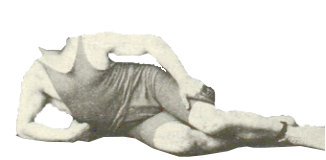
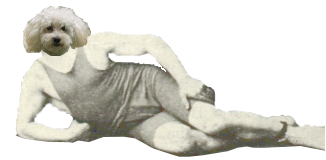
make header reactive

Changed region(s): [[0.0613, 0.0312, 0.2761, 0.375]]

diff --git a/client/src/components/Header.js b/client/src/components/Header.js
@@ -1,11 +1,10 @@
 import React, { useState } from 'react';
 import PropTypes from 'prop-types';
 import { Link, useNavigate } from 'react-router-dom';
-import { useAuth } from '../context/AuthContext'; // Import useAuth
+import { useAuth } from '../context/AuthContext';
 import './Header.css';
 
-// Import images from the src directory
-import logoFarigouleSrc from '../img/logo-farigoule.png'; // Adjusted path if logo is directly in src/img
+import logoFarigouleSrc from '../img/logo-farigoule.png';
 import boutonAccueilSrc from '../img/boutons/bouton-accueil.png';
 import boutonAccueilHoverSrc from '../img/boutons/bouton-accueil-hover.png';
 import boutonNousSrc from '../img/boutons/bouton-nous.png';
@@ -16,11 +15,6 @@ import boutonPortraitsSrc from '../img/boutons/bouton-portraits.png';
 import boutonPortraitsHoverSrc from '../img/boutons/bouton-portraits-hover.png';
 import boutonContactSrc from '../img/boutons/bouton-contact.png';
 import boutonContactHoverSrc from '../img/boutons/bouton-contact-hover.png';
-
-// TODO
-// Import CSS
-// - CSS for hover effects on menu items (replaces boutonsHover.js functionality)
-// - Ensure citation data is eventually fetched and passed as props if dynamic
 
 function Header(props) {
     const [isAccueilHovered, setIsAccueilHovered] = useState(false);
@@ -34,7 +28,7 @@ function Header(props) {
 
     const handleLogout = async () => {
         await logout();
-        navigate('/'); // Redirect to homepage after logout
+        navigate('/');
     };
     const handleGoProfile = () => navigate('/profile');
 
@@ -49,92 +43,48 @@ function Header(props) {
                     <p className="auteurCitation">{props.auteurCitation}</p>
                 </blockquote>
 
-                {/* Auth Status Display - Connexion link removed */}
                 <div className="auth-status-header">
                     {isAuthenticated && (
                         <>
-                        <span className="auth-user">Bienvenue, {currentUser?.surnom} !</span>
-
-                        {/* ─── nouveau bouton « Profil » ─── */}
-                        <button
-                            onClick={handleGoProfile}
-                            className="adminPanel-button"
-                            type = "edit"
-                        >
-                            Mon profil
-                        </button>
-                        <button
-                            onClick={handleLogout}
-                            disabled={isLoading}
-                            className="adminPanel-button"
-                            type="delete"
-                        >
-                            Déconnexion
-                        </button>
+                            <span className="auth-user">Bienvenue, {currentUser?.surnom} !</span>
+                            <button onClick={handleGoProfile} className="adminPanel-button" type="edit">
+                                Mon profil
+                            </button>
+                            <button onClick={handleLogout} disabled={isLoading} className="adminPanel-button" type="delete">
+                                Déconnexion
+                            </button>
                         </>
                     )}
                 </div>
 
-
-                <table className="tableauMenu">
-                    <thead>
-                        <tr>
-                            <td 
-                                onMouseEnter={() => setIsAccueilHovered(true)}
-                                onMouseLeave={() => setIsAccueilHovered(false)}
-                            >
-                                <span className="texteAccueil">Accueil</span>
-                                <Link to="/">
-                                    <img src={isAccueilHovered ? boutonAccueilHoverSrc : boutonAccueilSrc} alt="Bouton Accueil" className="boutonAccueil" />
-                                </Link>
-                            </td>
-                            <td
-                                onMouseEnter={() => setIsNousHovered(true)}
-                                onMouseLeave={() => setIsNousHovered(false)}
-                            >
-                                <span className="texteNous">Nous</span>
-                                <Link to="/nous">
-                                    <img src={isNousHovered ? boutonNousHoverSrc : boutonNousSrc} alt="Bouton Nous" className="boutonNous" />
-                                </Link>
-                            </td>
-                            <td
-                                onMouseEnter={() => setIsSymphoniesHovered(true)}
-                                onMouseLeave={() => setIsSymphoniesHovered(false)}
-                            >
-                                <span className="texteSymphonies">Symphonies</span>
-                                <Link to="/symphonies">
-                                    <img src={isSymphoniesHovered ? boutonSymphoniesHoverSrc : boutonSymphoniesSrc} alt="Bouton Symphonies" className="boutonSymphonies" />
-                                </Link>
-                            </td>
-                            <td
-                                onMouseEnter={() => setIsPortraitsHovered(true)}
-                                onMouseLeave={() => setIsPortraitsHovered(false)}
-                            >
-                                <span className="textePortraits">Portraits</span>
-                                <Link to="/portraits">
-                                    <img src={isPortraitsHovered ? boutonPortraitsHoverSrc : boutonPortraitsSrc} alt="Bouton Portraits" className="boutonPortraits" />
-                                </Link>
-                            </td>
-                            <td
-                                onMouseEnter={() => setIsContactHovered(true)}
-                                onMouseLeave={() => setIsContactHovered(false)}
-                            >
-                                <span className="texteContact">Contact</span>
-                                <Link to="/contact">
-                                    <img src={isContactHovered ? boutonContactHoverSrc : boutonContactSrc} alt="Bouton Contact" className="boutonContact" />
-                                </Link>
-                            </td>
-                        </tr>
-                    </thead>
-                </table>
+                <div className="flex flex-wrap justify-center gap-2 mt-4 md:flex-nowrap md:justify-between tableauMenu">
+                    {[{
+                        title: 'Accueil', link: '/', img: boutonAccueilSrc, hover: boutonAccueilHoverSrc, isHovered: isAccueilHovered, setHovered: setIsAccueilHovered, className: 'boutonAccueil'
+                    }, {
+                        title: 'Nous', link: '/nous', img: boutonNousSrc, hover: boutonNousHoverSrc, isHovered: isNousHovered, setHovered: setIsNousHovered, className: 'boutonNous'
+                    }, {
+                        title: 'Symphonies', link: '/symphonies', img: boutonSymphoniesSrc, hover: boutonSymphoniesHoverSrc, isHovered: isSymphoniesHovered, setHovered: setIsSymphoniesHovered, className: 'boutonSymphonies'
+                    }, {
+                        title: 'Portraits', link: '/portraits', img: boutonPortraitsSrc, hover: boutonPortraitsHoverSrc, isHovered: isPortraitsHovered, setHovered: setIsPortraitsHovered, className: 'boutonPortraits'
+                    }, {
+                        title: 'Contact', link: '/contact', img: boutonContactSrc, hover: boutonContactHoverSrc, isHovered: isContactHovered, setHovered: setIsContactHovered, className: 'boutonContact'
+                    }].map(({ title, link, img, hover, isHovered, setHovered, className }) => (
+                        <div key={title} className="flex flex-col items-center" onMouseEnter={() => setHovered(true)} onMouseLeave={() => setHovered(false)}>
+                            <span className="text-sm font-semibold">{title}</span>
+                            <Link to={link}>
+                                <img src={isHovered ? hover : img} alt={`Bouton ${title}`} className={className} />
+                            </Link>
+                        </div>
+                    ))}
+                </div>
             </div>
         </header>
-    )
+    );
 }
 
 Header.propTypes = {
     citation: PropTypes.string.isRequired,
     auteurCitation: PropTypes.string.isRequired,
-}
+};
 
-export default Header
+export default Header;

diff --git a/client/src/components/Header.css b/client/src/components/Header.css
@@ -1,6 +1,5 @@
 /* Styles for Header component */
 
-/* Copied from old global.css - Header section */
 header {
   display: flex;
   justify-content: center;
@@ -9,11 +8,11 @@ header {
   margin: 0 auto 1rem auto;
   padding: 0 10px;
   gap: 10px;
-  flex-wrap: nowrap; /* 🔒 empêche le passage à la ligne */
+  flex-wrap: nowrap;
 }
 
 .blocLogo {
-  width: 300px;       /* 🔒 largeur fixe comme dans global.css */
+  width: 300px;
   flex-shrink: 0;
 }
 
@@ -27,88 +26,141 @@ header {
   display: flex;
   flex-direction: column;
   justify-content: space-between;
-  gap: 0; 
+  gap: 0;
 }
 
-
 .blocCitation {
-    overflow: hidden;
-    height: 160px;
-    margin: 15px 10px 0px 10px;
-    /* Updated image paths to be relative to src/img */
-    background-image: url("../img/background-citation-tete.png"), url("../img/background-citation.png");
-    background-position: 20px 3px, left;
-    background-repeat: no-repeat;
-    border-left: 3px solid black;
-    padding-left: 20px;
+  overflow: hidden;
+  height: 160px;
+  margin: 15px 10px 0px 10px;
+  background-image: url("../img/background-citation.png");
+  background-position: left top;
+  background-repeat: no-repeat;
+  background-size: auto 100%;
+  padding: 1.2rem 1.2rem 0.5rem 0.5rem;
 }
 
 .citation {
-    font-family: 'Marck Script', cursive; /* Requires font import */
-    font-size: 1.5em;
-    text-align: justify;
-    margin-bottom: 5px;
-    text-indent: 75px;
+  font-family: 'Marck Script', cursive;
+  font-size: 1.5em;
+  text-align: justify;
+  text-indent: 5rem;
 }
 
 .auteurCitation {
-    font-weight: bold;
-    font-style: italic;
-    text-align: right;
-    margin-top: 0px;
+  font-weight: bold;
+  font-style: italic;
+  text-align: right;
+  margin-top: 0px;
 }
 
 .tableauMenu {
-    width: 680px;
-    text-align: center;
+  width: 680px;
+  text-align: center;
 }
 
-.tableauMenu td > span { /* Target spans directly under td for menu text */
-    visibility: hidden;
-    font-size: 0.8em;
-    font-weight: bold;
-    display: block; /* Ensure it takes space for layout if needed before visible */
-    margin-bottom: 0.1em; /* Add a little space between text and button image */
+.tableauMenu td > span {
+  visibility: hidden;
+  font-size: 0.8em;
+  font-weight: bold;
+  display: block;
+  margin-bottom: 0.1em;
 }
 
 .tableauMenu td:hover > span {
-    visibility: visible;
+  visibility: visible;
 }
-
 
 .boutonAccueil,
 .boutonNous,
 .boutonSymphonies,
 .boutonPortraits,
 .boutonContact {
-    width: 85px;
-    height: 85px;
+  width: 85px;
+  height: 85px;
 }
 
-
-
-
-/* ---------- AUTH STATUS HEADER ---------- */
-.auth-status-header{
-  /* remplira toute la largeur dispo - se cale à droite grâce au flex parent */
-  display:flex;
+.auth-status-header {
+  display: flex;
   justify-content: center;
-  align-items:center;
-  gap:1rem;
-  margin:.25rem 0;
-  padding:.35rem .75rem;
-  font-size:1rem;
+  align-items: center;
+  gap: 1rem;
+  margin: 0.25rem 0;
+  padding: 0.35rem 0.75rem;
+  font-size: 1rem;
 }
 
-.auth-user{           /* “Bienvenue, …” */
-  font-weight:600;
+.auth-user {
+  font-weight: 600;
 }
 
-/* --- Responsive : empiler le bloc si trop étroit --- */
-@media(max-width:600px){
-  .auth-status-header{
-    flex-direction:column;
-    align-items:flex-start;
-    gap:.3rem;
+@media (max-width: 768px) {
+  header {
+    flex-direction: column;
+    align-items: center;
+    gap: 1rem;
+    flex-wrap: wrap !important;
+    padding: 0 1rem;
+  }
+
+  .blocLogo {
+    display: none;
+  }
+
+  .blocHeader {
+    width: 100%;
+    align-items: center;
+  }
+
+  .blocCitation {
+    width: 100%;
+    height: 130px;
+    background-size: auto 100%;
+    background-repeat: no-repeat;
+    background-position: top left;
+    padding: 1rem 1rem 0.5rem 0.5rem;
+    border-left: none;
+  }
+
+  .citation {
+    text-indent: 4rem;
+    font-size: 1.2em;
+    text-align: justify;
+  }
+
+  .auteurCitation {
+    text-align: right;
+  }
+
+  .tableauMenu {
+    display: flex;
+    flex-wrap: wrap;
+    justify-content: center;
+    gap: 0.5rem;
+    width: 100%;
+    margin-top: 1rem;
+  }
+
+  .tableauMenu div {
+    width: 60px;
+  }
+
+  .tableauMenu img {
+    width: 50px;
+    height: 50px;
+  }
+
+  .tableauMenu span {
+    display: block;
+    font-size: 0.7em;
+    font-weight: bold;
+    margin-bottom: 0.25rem;
+    visibility: visible !important;
+  }
+
+  .auth-status-header {
+    flex-direction: column;
+    align-items: flex-start;
+    gap: 0.3rem;
   }
 }
